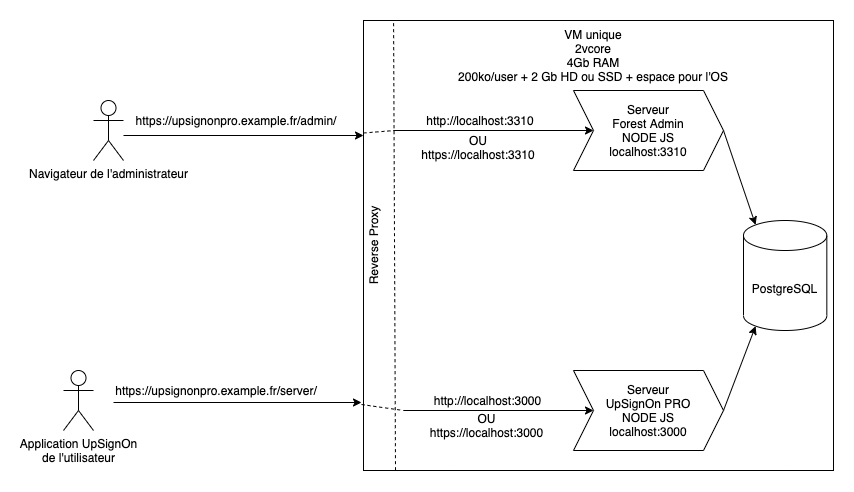
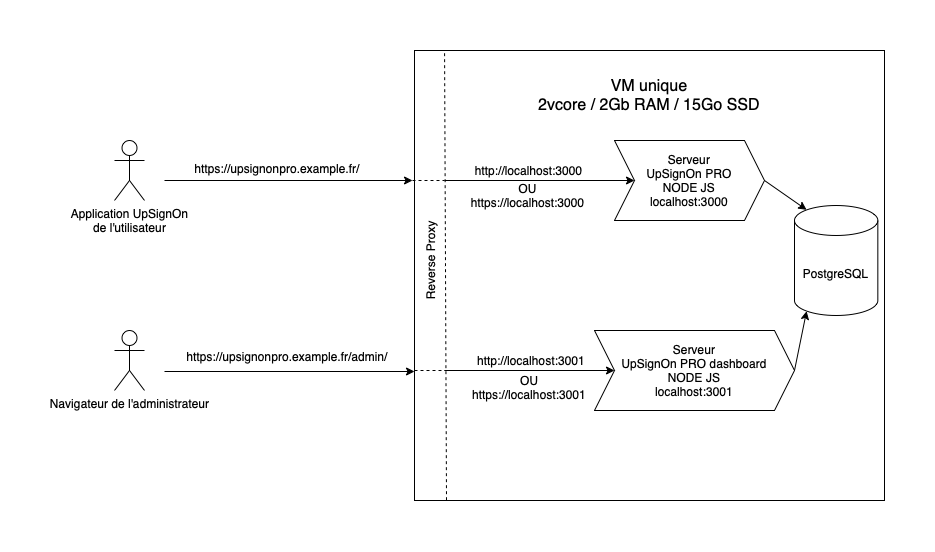
update schemes

diff --git a/doc/Install.md b/doc/Install.md
@@ -2,18 +2,20 @@
 
 Vous allez devoir installer une base de données PostgreSQL et deux serveurs applicatifs (3 processus). Notez que ces 3 processus n'ont pas besoin de s'exécuter sur la même machine.
 
+![](/doc/integrationSchemeGeneral.png)
+
 ## Architecture type 1 (Architecture standard, la plus simple)
 
 Nous recommandons cette architecture pour simplifier l'installation et la maintenance.
 
-![](./doc/integrationScheme1.png)
+![](/doc/integrationScheme1.png)
 
 ## Architecture type 2
 
 Ce type d'architecture sera notamment adapté pour les cas où vous voulez ajouter une couche de protection supplémentaire sur le serveur d'administration en le rendant accessible uniquement depuis votre réseau d'entreprise interne afin de limiter la surface d'attaque possible.
 
 Notez cependant que le serveur UpSignOn PRO doit rester accessible depuis n'importe où pour que le client lourd puisse s'y connecter.
-![](./doc/integrationScheme2.png)
+![](/doc/integrationScheme2.png)
 
 ## Ressources nécessaires estimées par serveur
 
@@ -25,7 +27,7 @@ Notez cependant que le serveur UpSignOn PRO doit rester accessible depuis n'impo
 Serveur de base de données
 
 - votre OS de prédilection
-- CPU: 1vcore
+- CPU: 2vcore
 - RAM 512Mo
 - HD ou SD : compter environ 200ko par utilisateur, soit 100mo pour 500 utilisateurs.
 
